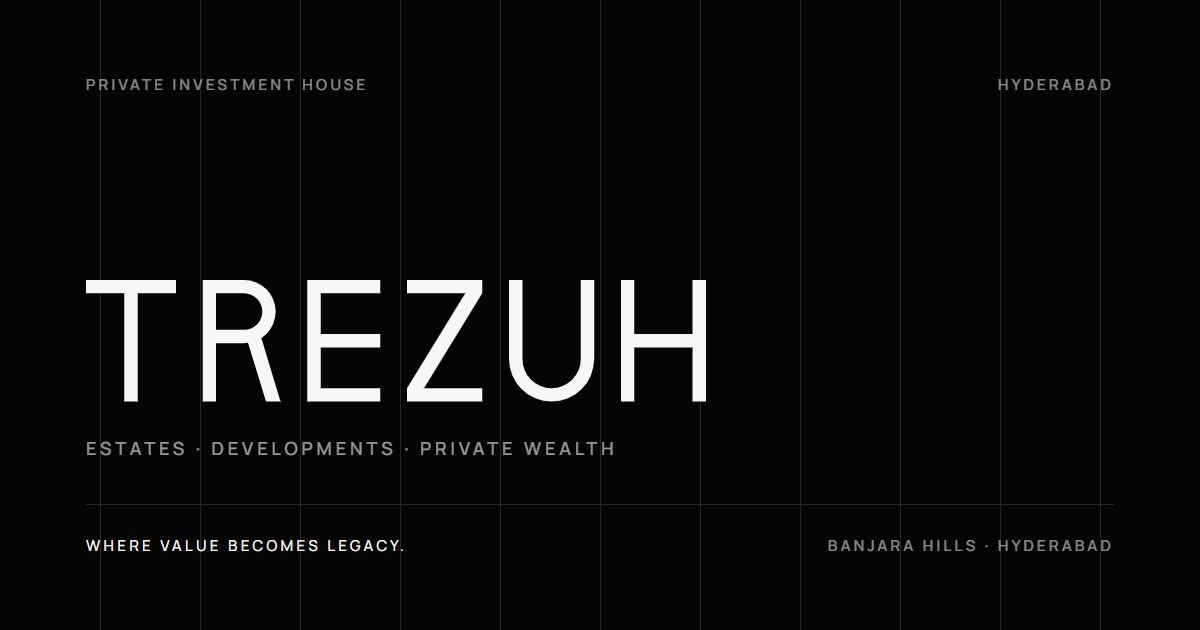
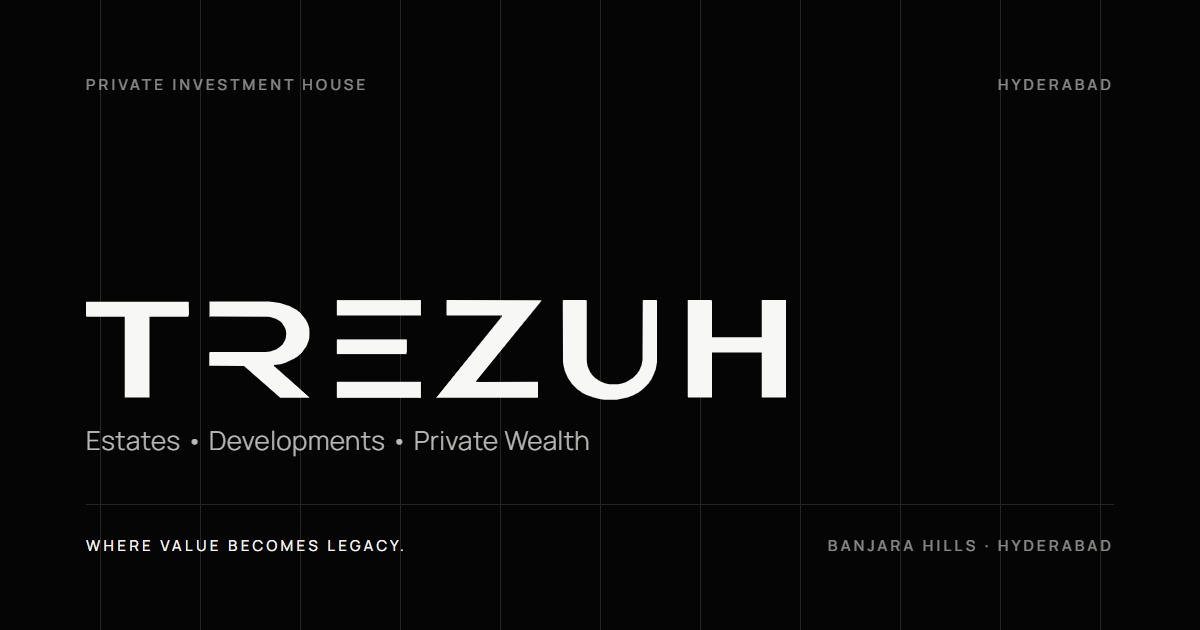
Replace the wordmark with the real one, traced from the artwork
The mark I had been drawing was wrong, and wrong in a way no amount of font
picking would have fixed. Measuring the supplied artwork against it:

- The E has no vertical spine at all. It is three detached bars — top and
  bottom 84 units long, middle 70 — with clear gaps between them. I had drawn
  a conventional spined E.
- The R has no left stem. Its bowl is a top bar, a curved right side and a
  middle bar, closed by a diagonal that runs on into the leg.
- The letters are much wider than any grotesk: the whole mark is 7.02x its cap
  height where mine was 5.1x, so every letter was about 40% too narrow.
- Vertical strokes are roughly 1.6x the weight of the horizontals (24 units
  against 15), not monoline as I had drawn them.

So the outlines are now traced from the artwork at 3x supersampling and
simplified to 185 points — 2.4 KB, no webfont, identical everywhere. The
descriptor in the lockup follows the artwork too: sentence case, light,
bullet separated, rather than the small-caps label used elsewhere.

public/brand/trezuh-wordmark.svg holds the same outlines as a standalone
asset, and icon.svg, apple-icon.png and the Open Graph card are all
regenerated from them.

Changed region(s): [[0.0617, 0.4222, 0.6783, 0.6635], [0.0617, 0.6635, 0.5242, 0.7238]]

diff --git a/src/components/layout/Wordmark.tsx b/src/components/layout/Wordmark.tsx
@@ -3,55 +3,39 @@ import { BRAND } from "@/lib/content";
 /**
  * TREZUH wordmark.
  *
- * Drawn, not typeset. A font substitution gets the E wrong — most geometric
- * grotesks shorten the middle arm — so the six letters are constructed here
- * on the logo's own grid: 100 units of cap height, a 9.5-unit stroke, and an
- * E whose three arms are the same length.
+ * These outlines are traced from the supplied artwork, not set in a typeface.
+ * The mark is deconstructed in ways no font reproduces: the E is three
+ * detached bars with no spine, the R has no left stem — its bowl is closed by
+ * a diagonal that continues into the leg — and the letters are far wider than
+ * any grotesk, with vertical strokes noticeably heavier than the horizontals.
+ * Substituting a font gets every one of those details wrong.
  *
- * Because it is geometry rather than type, it is identical in every browser,
- * needs no webfont, and never reflows while one loads. Nothing is added to
- * it: no icon, no effects, no second colour.
+ * Tracing also means the mark carries no webfont dependency, is identical in
+ * every browser, and never reflows while something loads.
  *
- * If the original vector artwork is preferred, drop it at
- * `public/brand/trezuh-wordmark.svg` and swap the <svg> below for:
- *   <Image src="/brand/trezuh-wordmark.svg" alt="" width={510} height={100}
- *          priority className="h-[0.72em] w-auto" />
+ * The same outlines are available as a standalone file at
+ * `public/brand/trezuh-wordmark.svg`.
  */
 
-/** Advance widths and the tracking between them, in cap-height units. */
-const GLYPHS = [
-  // T
-  { w: 74, d: "M0 0h74v11H0z M31.5 0h11v100h-11z" },
-  // R — a full bowl closed by a straight diagonal leg
-  {
-    w: 64,
-    d:
-      "M0 0h11v100H0z " +
-      "M11 0h23a26 26 0 0 1 0 52H11V41h23a15 15 0 0 0 0-30H11z " +
-      "M34 41h12l18 59H52z",
-  },
-  // E — three arms of equal length
-  { w: 60, d: "M0 0h11v100H0z M0 0h60v11H0z M0 44.5h60v11H0z M0 89h60v11H0z" },
-  // Z
-  { w: 62, d: "M0 0h62v11H0z M0 89h62v11H0z M47.95 11H62L14.05 89H0z" },
-  // U
-  { w: 70, d: "M0 0h11v65a24 24 0 0 0 48 0V0h11v65a35 35 0 0 1-70 0z" },
-  // H
-  { w: 70, d: "M0 0h11v100H0z M59 0h11v100h-11z M11 44.5h48v11H11z" },
-] as const;
-
-const TRACK = 22;
-
-const OFFSETS = GLYPHS.reduce<number[]>((acc, glyph, i) => {
-  acc.push(i === 0 ? 0 : acc[i - 1] + GLYPHS[i - 1].w + TRACK);
-  return acc;
-}, []);
-
-const WIDTH = OFFSETS[OFFSETS.length - 1] + GLYPHS[GLYPHS.length - 1].w;
+/** Outlines traced from the supplied artwork. Cap height = 100 units. */
+const WORDMARK = {
+  width: 701.79,
+  height: 99.89,
+  paths: [
+    "M63.20,97.87 39.04,97.87 38.70,97.54 38.70,17.00 38.37,16.67 0.78,16.67 0.22,16.33 0.00,15.44 0.00,2.46 0.34,1.68 102.57,1.68 102.91,2.01 103.13,14.32 102.57,16.67 63.87,16.67 63.53,17.00 63.53,97.54 63.20,97.87Z",
+    "M223.60,98.10 194.74,98.10 158.28,66.11 123.83,65.88 123.49,65.32 123.49,53.02 124.05,52.24 179.98,52.24 184.68,51.57 190.49,49.55 193.18,47.99 196.87,44.52 199.55,40.27 200.22,38.03 200.67,33.56 200.22,29.98 199.33,27.52 196.20,22.82 193.62,20.69 190.27,18.90 184.68,17.11 182.44,16.67 123.83,16.44 123.71,1.79 124.05,1.45 182.89,1.45 187.81,1.90 194.52,3.02 203.91,5.93 210.40,9.51 214.88,12.86 220.36,19.46 222.37,23.49 223.71,28.19 224.16,33.11 223.71,38.48 222.37,43.40 220.58,47.20 216.33,52.80 211.97,56.71 209.06,58.72 200.11,62.98 195.19,64.32 188.48,65.21 188.14,66.00 219.13,93.18 223.71,97.54 223.60,98.10Z",
+    "M335.46,15.55 252.01,15.55 251.45,14.99 251.45,0.67 252.01,0.11 335.46,0.11 335.79,0.45 335.79,15.21 335.46,15.55Z",
+    "M321.14,54.25 251.79,54.25 251.45,53.91 251.45,40.04 252.01,39.49 321.14,39.49 321.70,40.04 321.70,51.90 321.14,54.25Z",
+    "M335.46,98.10 252.01,98.10 251.45,97.54 251.45,82.33 251.79,81.99 335.46,81.99 335.79,82.33 335.79,97.76 335.46,98.10Z",
+    "M452.68,98.10 351.79,98.10 351.45,97.76 417.23,16.11 416.89,15.55 361.86,15.55 361.52,14.99 361.52,0.67 362.08,0.11 456.38,0.22 456.38,0.89 452.57,5.82 391.05,81.43 391.16,81.99 395.41,82.21 452.68,81.99 453.24,82.77 453.24,97.32 452.68,98.10Z",
+    "M532.10,99.89 519.57,99.89 516.00,99.44 509.06,97.87 501.68,95.19 497.87,93.18 492.28,89.15 487.25,84.12 483.00,77.85 480.09,70.92 478.75,65.77 478.30,62.19 478.08,0.67 478.64,0.11 501.23,0.11 502.01,0.67 502.01,59.96 502.24,63.09 503.13,66.89 505.59,72.48 507.61,75.17 510.85,78.41 515.77,81.77 521.14,83.78 524.50,84.45 533.45,84.45 537.25,83.78 541.05,82.44 548.21,78.19 552.35,74.05 554.59,70.69 556.82,65.32 557.94,60.18 558.17,0.67 558.95,0.11 571.70,0.11 572.48,0.45 572.48,62.42 571.14,69.35 569.57,73.83 566.89,79.42 563.98,83.67 558.28,89.60 554.47,92.51 548.21,95.86 542.84,97.87 532.10,99.89Z",
+    "M701.23,97.87 678.19,97.87 677.63,97.54 677.63,53.24 677.07,52.68 628.75,52.68 627.85,52.68 627.52,53.24 627.52,97.54 626.96,97.87 603.91,97.87 603.36,97.32 603.36,0.45 603.91,0.11 626.96,0.11 627.52,0.67 627.52,37.14 627.85,37.47 677.07,37.47 677.40,37.14 677.63,0.45 677.96,0.11 701.45,0.11 701.79,0.45 701.79,97.32 701.23,97.87Z",
+  ],
+} as const;
 
 type WordmarkProps = {
   className?: string;
-  /** Renders the full logo lockup, wordmark above descriptor. */
+  /** Renders the full logo lockup: wordmark above descriptor. */
   withDescriptor?: boolean;
   descriptorClassName?: string;
 };
@@ -67,24 +51,26 @@ export function Wordmark({
           readers; the drawing carries the brand. */}
       <span className="sr-only">{BRAND.name}</span>
       <svg
-        viewBox={`0 0 ${WIDTH} 100`}
+        viewBox={`0 0 ${WORDMARK.width} ${WORDMARK.height}`}
         aria-hidden
         focusable="false"
-        /* self-start keeps the flex column from stretching the drawing
-           to the width of the descriptor underneath it. */
-        className="block h-[0.72em] w-auto self-start"
+        /* self-start stops the flex column stretching the drawing to the
+           width of the descriptor underneath it. */
+        className="block h-[0.78em] w-auto self-start"
         fill="currentColor"
       >
-        {GLYPHS.map((glyph, i) => (
-          <path key={i} d={glyph.d} transform={`translate(${OFFSETS[i]} 0)`} />
+        {WORDMARK.paths.map((d, i) => (
+          <path key={i} d={d} />
         ))}
       </svg>
       {withDescriptor ? (
+        /* Set as the artwork sets it: sentence case, light, bullet
+           separated — not as the small-caps label used elsewhere. */
         <span
           aria-hidden
-          className={`label mt-[0.85em] opacity-60 ${descriptorClassName ?? ""}`}
+          className={`mt-[0.5em] text-[0.26em] leading-none font-light tracking-[0.02em] opacity-75 ${descriptorClassName ?? ""}`}
         >
-          {BRAND.descriptor}
+          {BRAND.descriptorParts.join(" • ")}
         </span>
       ) : null}
     </span>

diff --git a/README.md b/README.md
@@ -89,15 +89,26 @@ be touched to re-write the site.
 
 ## Brand
 
-The wordmark is **drawn, not typeset** — see
-`src/components/layout/Wordmark.tsx`. Every geometric grotesk shortens the
-middle arm of the E, which the TREZUH E does not, so the six letters are
-constructed as SVG on the logo's own grid: 100 units of cap height, an
-11-unit stroke, 22 units of tracking. That also means the wordmark needs no
-webfont, is identical in every browser, and never reflows while one loads.
+The wordmark is **traced from the supplied artwork**, not set in a typeface —
+see `src/components/layout/Wordmark.tsx`. The mark is deconstructed in ways no
+font reproduces:
 
-To use the original vector artwork instead, drop it at
-`public/brand/trezuh-wordmark.svg` and follow the note in the component.
+- the **E** is three detached bars with no vertical spine,
+- the **R** has no left stem — its bowl is closed by a diagonal that runs on
+  into the leg,
+- the letters are far wider than any grotesk (the whole mark is 7.0× its cap
+  height), with vertical strokes about 1.6× the weight of the horizontals.
+
+Substituting a font gets every one of those wrong, which is why the outlines
+were traced at 3× supersampling and simplified to 185 points — 2.4 KB of path
+data, no webfont dependency, identical in every browser, and it never reflows
+while something loads. The same outlines are in
+[`public/brand/trezuh-wordmark.svg`](public/brand/trezuh-wordmark.svg), and
+`icon.svg`, `apple-icon.png` and the Open Graph card are all generated from
+them.
+
+The descriptor in the lockup follows the artwork too: sentence case, light,
+bullet separated — not the small-caps label used elsewhere on the page.
 
 ## SEO
 

diff --git a/public/brand/README.md b/public/brand/README.md
@@ -1,13 +1,16 @@
 # Brand assets
 
-Drop the supplied TREZUH artwork here — `trezuh-wordmark.svg` for the wordmark
-and `trezuh-lockup.svg` for the wordmark-over-descriptor version.
+`trezuh-wordmark.svg` is the TREZUH wordmark, traced from the artwork supplied
+by the client. Cap height is 100 units, the full mark is 701.79 wide, and it
+inherits `currentColor` — so it can be dropped into anything and will take the
+colour of its context.
 
-The site currently sets the wordmark as live type in the display face (Jost),
-which matches the supplied logo's geometry, stays sharp at every size and
-remains selectable. To use the original artwork instead, edit
-`src/components/layout/Wordmark.tsx` — the swap is a single element and the
-instructions are in the file.
+The site does not load this file; `src/components/layout/Wordmark.tsx` carries
+the same outlines inline, so the mark paints with the first byte of HTML and
+never flashes. Keep the two in step if either changes.
 
-Rules that apply either way: monochrome only, no icon beside it, no effects,
-no change to its proportions or letterspacing.
+`src/app/icon.svg`, `src/app/apple-icon.png` and `src/app/opengraph-image.jpg`
+are all generated from these outlines as well.
+
+Rules: monochrome only, no icon beside it, no effects, and no change to its
+proportions or letterspacing.

diff --git a/CREDITS.md b/CREDITS.md
@@ -23,11 +23,17 @@ Replace them by dropping new files into `src/assets/images/` under the same
 names — the static imports in `src/lib/images.ts` pick up the new dimensions
 and regenerate the blur placeholders automatically.
 
+# The wordmark
+
+Traced from the artwork supplied by the client, at 3x supersampling, and
+simplified to 185 points. It is not set in any typeface — see
+`src/components/layout/Wordmark.tsx` for why no font can stand in for it.
+
 # Typefaces
 
-- **Jost** (Google Fonts) — display. A geometric grotesk chosen because it
-  shares the wordmark's construction: the single-storey diagonal `R`, the flat
-  `E` arms, the circular `O`.
+- **Jost** (Google Fonts) — display, for headlines only. A geometric grotesk
+  chosen because it sits comfortably beside the wordmark; it is never used to
+  set the wordmark itself.
 - **Manrope** (Google Fonts) — text.
 - **Cormorant Garamond** (Google Fonts) — the italic serif accent, used four
   times on the entire page.
